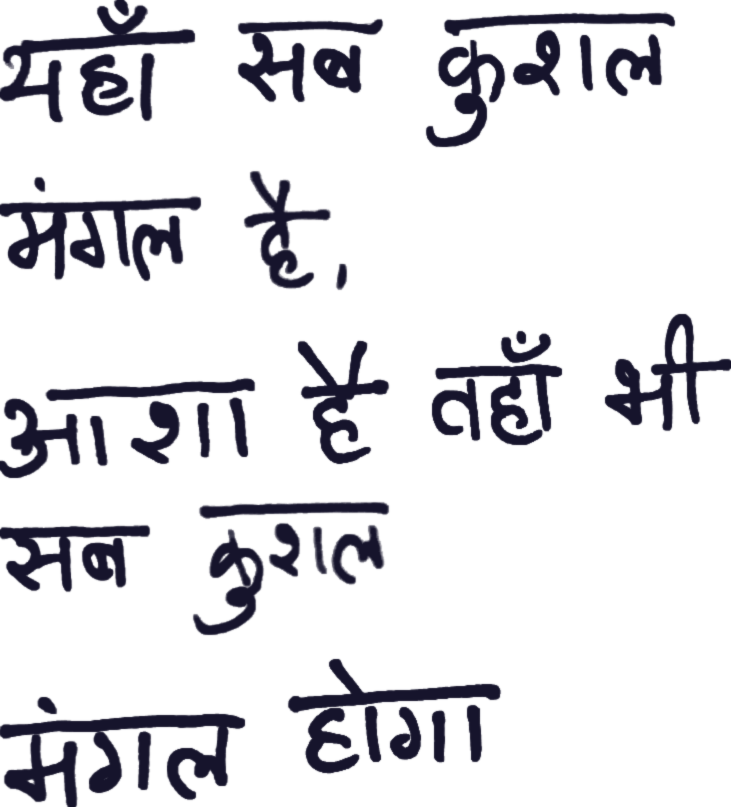
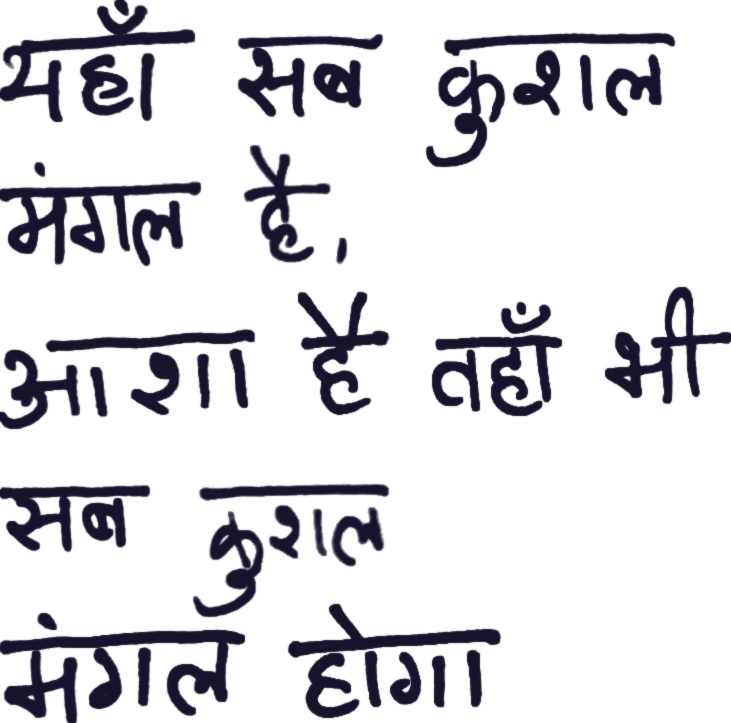
Play home: handwritten words aligned on one line, even line spacing
Claude-Session: https://claude.ai/code/session_01ViFN6jStNe9FJW9fzJx59M

diff --git a/play-home.html b/play-home.html
@@ -234,7 +234,7 @@ body{background:var(--stone);color:var(--cream);font-family:var(--serif);overflo
         <div class="pc-left">
           <div class="pc-kicker">POST CARD</div>
           
-          <img class="hw hw-msg" src="img/outside/hw-msg.png?v=5" alt="यहाँ सब कुशल मंगल है, आशा है वहाँ भी सब कुशल मंगल होगा।">
+          <img class="hw hw-msg" src="img/outside/hw-msg.png?v=8" alt="यहाँ सब कुशल मंगल है, आशा है वहाँ भी सब कुशल मंगल होगा।">
           <svg class="pc-waves" viewBox="0 0 160 40" aria-hidden="true"><g fill="none" stroke="#3a2a22" stroke-width="2" opacity=".55">
             <path d="M0 6q10-6 20 0t20 0 20 0 20 0 20 0 20 0 20 0 20 0"/><path d="M0 16q10-6 20 0t20 0 20 0 20 0 20 0 20 0 20 0 20 0"/>
             <path d="M0 26q10-6 20 0t20 0 20 0 20 0 20 0 20 0 20 0 20 0"/><path d="M0 36q10-6 20 0t20 0 20 0 20 0 20 0 20 0 20 0 20 0"/></g></svg>
@@ -256,9 +256,9 @@ body{background:var(--stone);color:var(--cream);font-family:var(--serif);overflo
             <defs><path id="pcarc" d="M60 60m-45 0a45 45 0 1 1 90 0a45 45 0 1 1-90 0"/></defs>
             <text font-family="Special Elite" font-size="11" fill="#2c2a4a" opacity=".65" letter-spacing="2"><textPath href="#pcarc">SAUMYASRI.IN · PLAY · SAUMYASRI.IN ·</textPath></text>
             <text x="60" y="64" text-anchor="middle" font-family="Special Elite" font-size="12" fill="#2c2a4a" opacity=".7">NOV 26</text></svg>
-          <div class="pc-addr pc-first"><span>To,</span><img class="hw hw-to" src="img/outside/hw-to.png?v=7" alt="whoever"></div>
-          <div class="pc-addr pc-cont"><img class="hw hw-to2" src="img/outside/hw-to2.png?v=7" alt="wanders in"></div>
-          <div class="pc-addr"><span>From,</span><img class="hw hw-from" src="img/outside/hw-from.png?v=7" alt="Saumya S."></div>
+          <div class="pc-addr pc-first"><span>To,</span><img class="hw hw-to" src="img/outside/hw-to.png?v=8" alt="whoever"></div>
+          <div class="pc-addr pc-cont"><img class="hw hw-to2" src="img/outside/hw-to2.png?v=8" alt="wanders in"></div>
+          <div class="pc-addr"><span>From,</span><img class="hw hw-from" src="img/outside/hw-from.png?v=8" alt="Saumya S."></div>
         </div>
       </div></div>
     </div>
